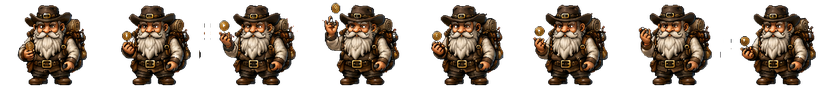
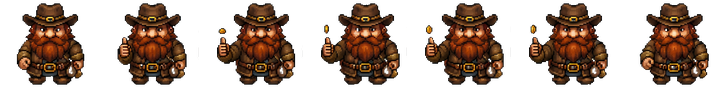
[visuel] Marchand : nouveau sprite (nain au chapeau, pouce leve + piece)
Remplace la planche de Renaud par la nouvelle version uploadee (ligne 1 =
7 frames de face : repos -> pouce leve -> piece doree brandie -> retour).
data/pnj.js ajuste a 7 frames (au lieu de 8).

- outils/importer_marchand.py : coordonnees de la nouvelle source, nombre
  de frames dynamique (len(COLS)), meme passe anti-ombre que le forgeron,
  et CORRECTIF de placement : la frame est centree sur les jambes mais
  BORNEE dans sa cellule — avant, la piece brandie (accessoire excentre)
  debordait de la cellule et se faisait couper au bord.
- Source rangee dans images/sources/marchand-source.png (remplace l'ancienne).

Claude-Session: https://claude.ai/code/session_01JJcbumK5KWRfGozDrLY2Kn

diff --git a/jeu/data/pnj.js b/jeu/data/pnj.js
@@ -39,7 +39,7 @@ export const MARCHAND = {
     caseH: 88,
     anims: {
       repos:   { frames: [0], ips: 1, boucle: true },                 // debout, immobile
-      passive: { frames: [0, 1, 2, 3, 4, 5, 6, 7], ips: 8, boucle: false }, // lance/rattrape la pièce
+      passive: { frames: [0, 1, 2, 3, 4, 5, 6], ips: 7, boucle: false }, // pouce levé, pièce brandie
     },
   },
   // Toutes les `min`–`max` secondes (aléatoire), il joue UNE fois l'animation passive.

diff --git a/outils/importer_marchand.py b/outils/importer_marchand.py
@@ -23,9 +23,9 @@ SRC = 'images/sources/marchand-source.png'
 OUT = 'images/pnj/marchand.png'
 CASE_H = 88            # hauteur cible de la case (jeu)
 CASE_L = 104           # largeur FIXE de la case (marge autour du nain le plus large)
-BY0, BY1 = 20, 212     # bande verticale de la ligne 1 (de face)
-# Colonnes (x) des 8 nains dans la source (le reste = pièce en l'air, ignoré).
-COLS = [(49,196),(235,381),(408,571),(611,770),(806,960),(993,1151),(1191,1346),(1374,1536)]
+BY0, BY1 = 55, 215     # bande verticale de la ligne 1 (de face)
+# Colonnes (x) des nains de la ligne 1 (le nombre de frames s'adapte à la liste).
+COLS = [(76,197),(255,379),(448,588),(650,791),(850,992),(1052,1194),(1271,1395)]
 
 
 def main():
@@ -38,6 +38,14 @@ def main():
         for x in range(W):
             r, g, b, a = px[x, y]
             if r > 224 and g > 224 and b > 224 and (max(r, g, b) - min(r, g, b)) < 18:
+                px[x, y] = (r, g, b, 0)
+
+    # 1bis) L'OMBRE AU SOL du sheet (gris clair désaturé) ferait une tache sous les
+    # pieds sur le sol sombre du jeu — on la vire dans le BAS de la bande utile.
+    for y in range(max(0, BY1 - 50), min(H, BY1 + 15)):
+        for x in range(W):
+            r, g, b, a = px[x, y]
+            if a > 0 and r >= 178 and (max(r, g, b) - min(r, g, b)) <= 14:
                 px[x, y] = (r, g, b, 0)
 
     # 2) Érode l'alpha de 1 px : mange la frange claire du contour (anti-aliasing).
@@ -82,24 +90,28 @@ def main():
                 if A[x, y] > 60: sx += x; n += 1
         return sx/n if n else (a+b)/2
 
-    strip = Image.new('RGBA', (CWn*8, CHn), (0, 0, 0, 0))
+    N = len(frames)
+    strip = Image.new('RGBA', (CWn*N, CHn), (0, 0, 0, 0))
     for i, (a, b, t, d) in enumerate(frames):
         fr = im.crop((a, t, b, d))
         cx = leg_cx(a, b, t, d) - a
-        strip.alpha_composite(fr, (int(round(i*CWn + CWn/2 - cx)), int(round(CHn - pad - (d-t)))))
+        # Centre sur les jambes, mais BORNÉ pour que la frame ENTIÈRE reste dans sa
+        # cellule (sinon un accessoire excentré — la pièce brandie — serait coupé).
+        ox = max(0, min(round(CWn/2 - cx), CWn - fr.width))
+        strip.alpha_composite(fr, (i*CWn + ox, int(round(CHn - pad - (d-t)))))
 
     # 5) Mise à l'échelle jeu, puis recentrage dans une case de largeur FIXE
     #    (CASE_L) : ainsi la taille de case ne bouge JAMAIS d'une régénération à
     #    l'autre (sinon le code devrait être réajusté à chaque nouvel upload).
     scale = CASE_H / CHn
     cw = round(CWn * scale)
-    scaled = strip.resize((cw*8, CASE_H), Image.LANCZOS)
-    out = Image.new('RGBA', (CASE_L*8, CASE_H), (0, 0, 0, 0))
-    for i in range(8):
+    scaled = strip.resize((cw*N, CASE_H), Image.LANCZOS)
+    out = Image.new('RGBA', (CASE_L*N, CASE_H), (0, 0, 0, 0))
+    for i in range(N):
         cell = scaled.crop((i*cw, 0, (i+1)*cw, CASE_H))
         out.alpha_composite(cell, ((CASE_L - cw)//2 + i*CASE_L, 0))
     out.save(OUT)
-    print(f'{OUT} : caseL={CASE_L} caseH={CASE_H} (8 frames)')
+    print(f'{OUT} : caseL={CASE_L} caseH={CASE_H} ({N} frames)')
 
 
 if __name__ == '__main__':
